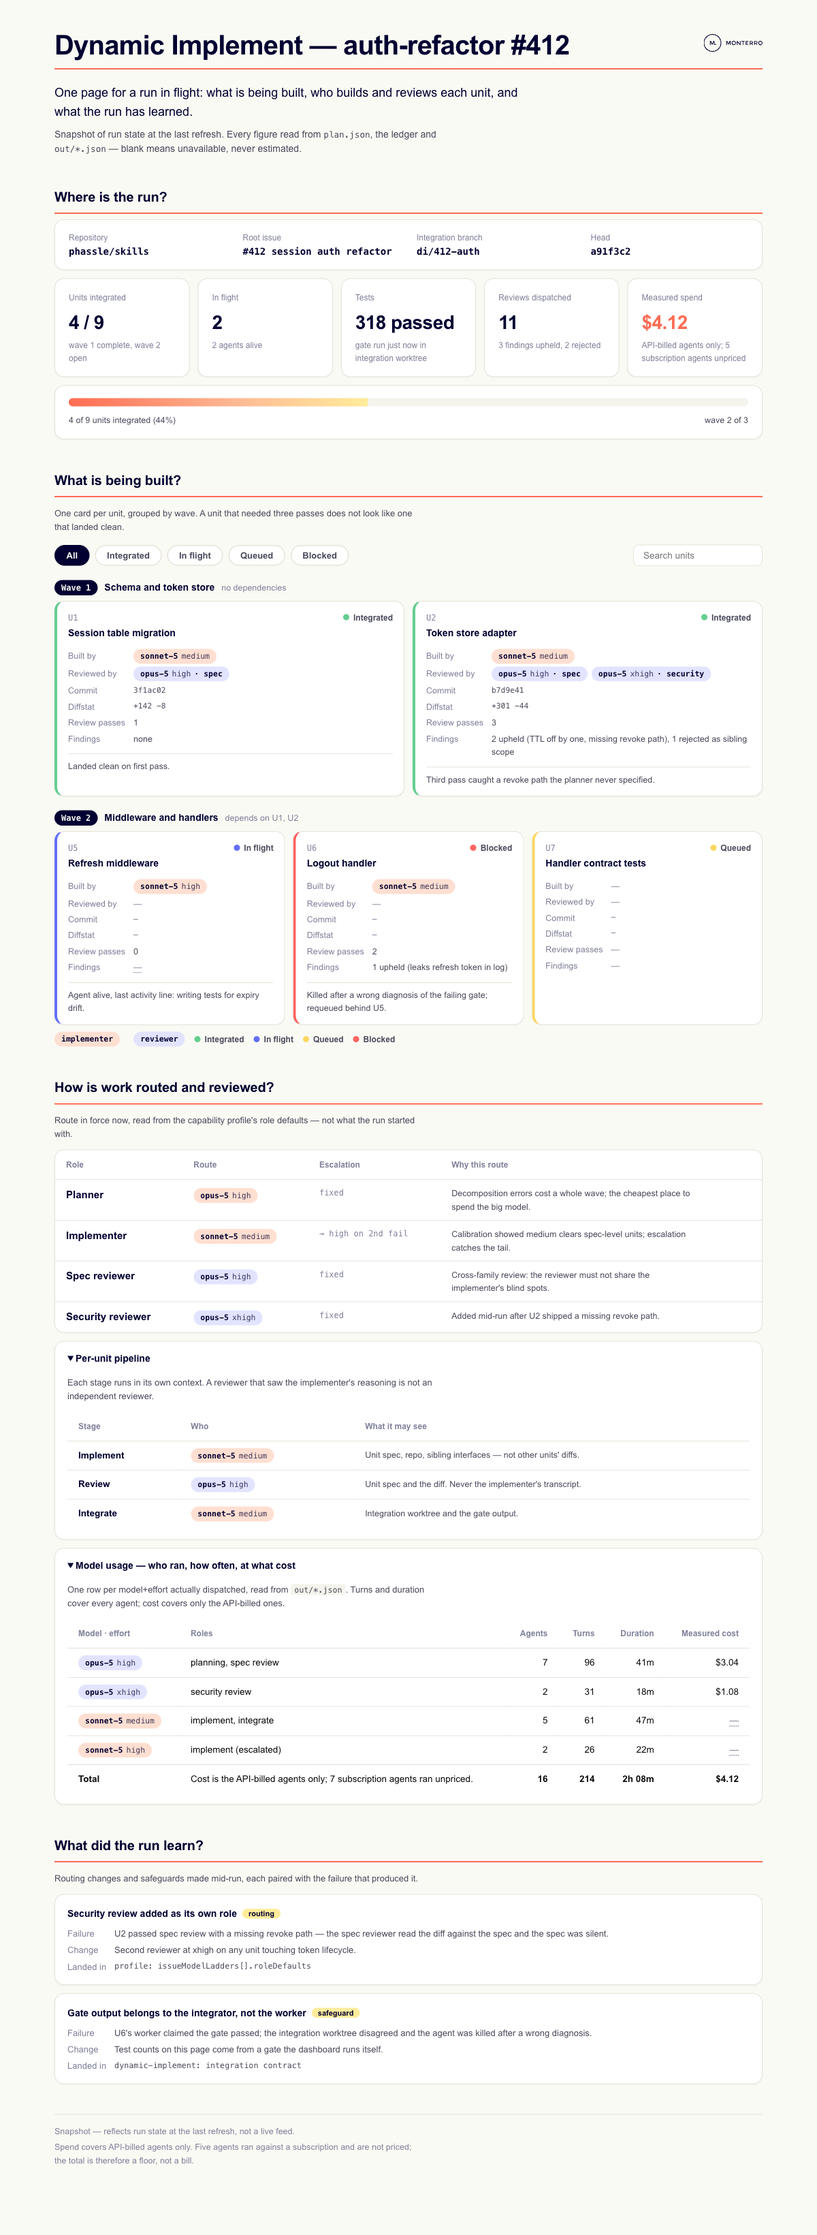
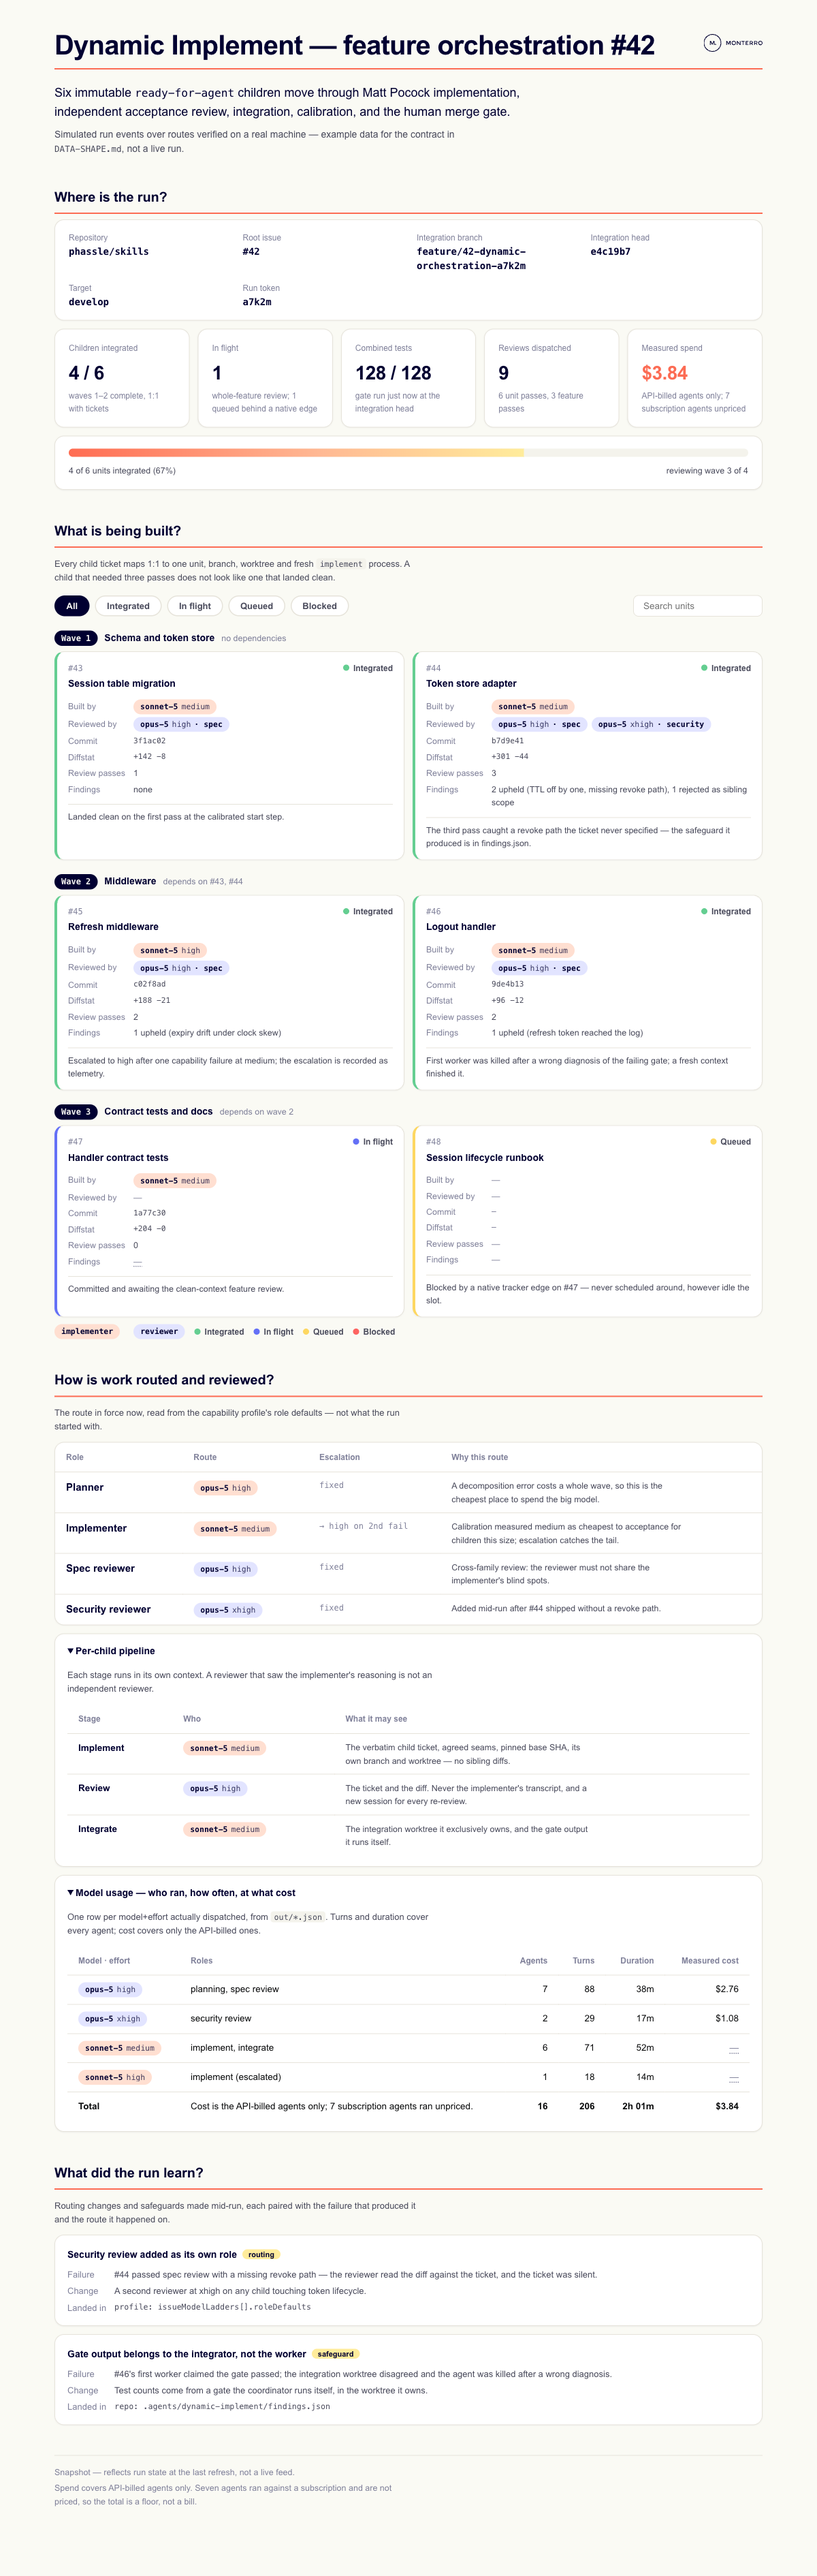
readme: reshoot the dashboard from a committed example run
The screenshot showed pre-#3 vocabulary — "units" with no ticket
identity — and its data lived only in a scratch file, so the next reshoot
would have meant reconstructing it.

Adds references/example-run.json: six ready-for-agent children mapped 1:1
to units across three waves, one queued behind a native tracker edge, one
escalated route, gaps both with and without a stated reason, and the usage
table. It doubles as the worked example for DATA-SHAPE.md, so the contract
now has something valid to read rather than fragments.

Reshot from it. Five tiles fill one row instead of six wrapping to leave a
lone tile beside two thirds of empty grid.

diff --git a/README.md b/README.md
@@ -64,9 +64,11 @@ flowchart LR
   I -.-> D
 ```
 
-`/dynamic-run-dashboard` gives you one page for the run — units per wave, who built and reviewed each one, what each model cost, and what the run learned:
+`/dynamic-run-dashboard` gives you one page for the run — every child ticket per wave, who built and reviewed each one, what each model cost, and what the run learned:
 
 ![The run dashboard](./docs/dynamic-run-dashboard.png)
+
+<sub>Rendered from [`example-run.json`](./skills/other/dynamic-run-dashboard/references/example-run.json) — simulated events, real verified routes.</sub>
 
 <details>
 <summary><b>What one run does</b> — spec in, child tickets worked off, one PR out</summary>

diff --git a/skills/other/dynamic-run-dashboard/references/DATA-SHAPE.md b/skills/other/dynamic-run-dashboard/references/DATA-SHAPE.md
@@ -22,6 +22,8 @@ Keep `why` short and self-contained — it is read aloud as the cell's whole con
 
 Never substitute an estimate. A visible gap is worth more than a number the reader can't trust.
 
+A complete, valid example lives beside this file in [`example-run.json`](example-run.json) — six children across three waves, one queued behind a native edge, gaps with and without reasons, and the usage table. It renders the screenshot in the repository README, so it is kept working.
+
 ## Shape
 
 ```jsonc
